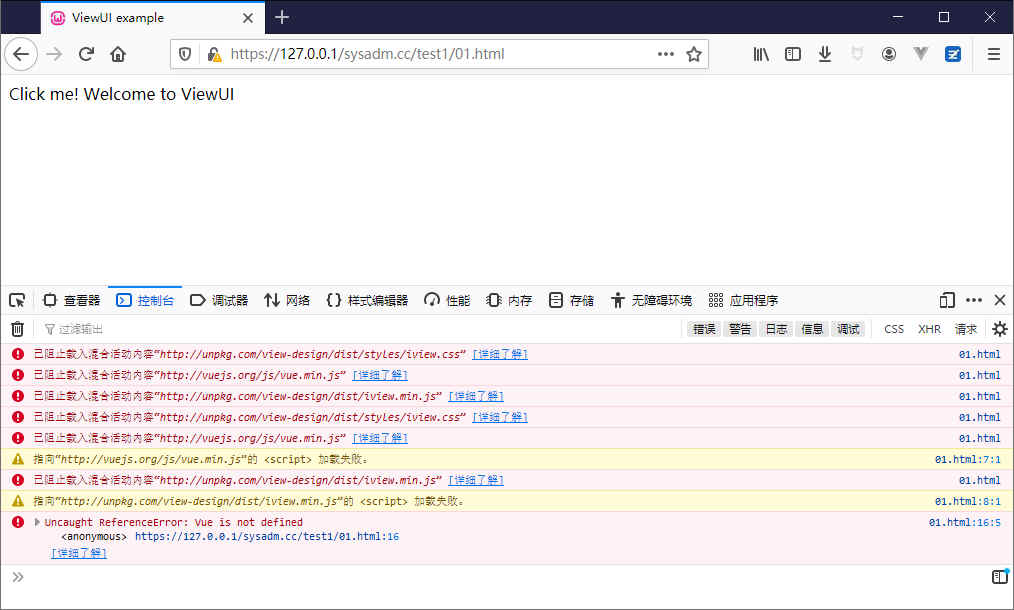
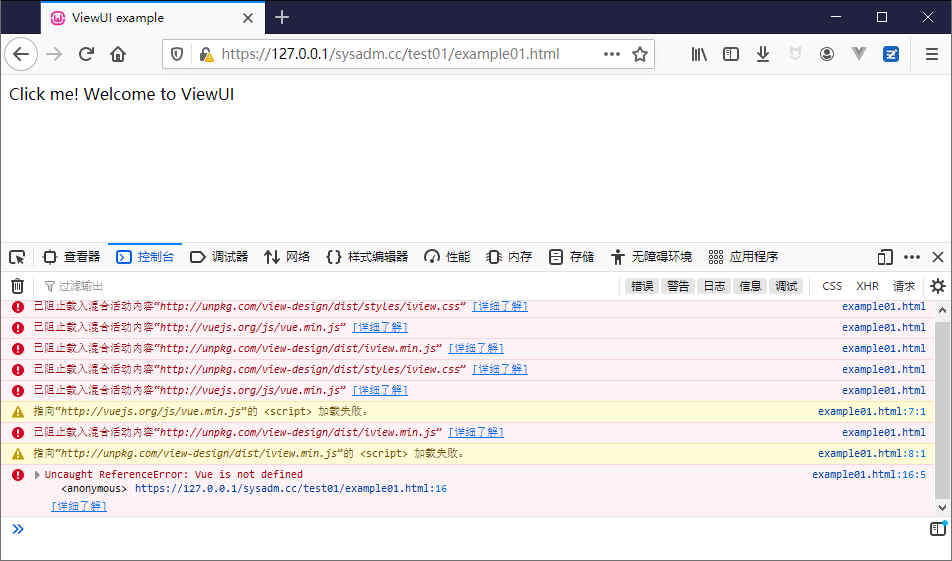
writing

Changed region(s): [[0.0, 0.4242, 1.0, 0.9697], [0.0, 0.0, 1.0, 0.1818], [0.0, 0.9394, 0.0305, 0.9697]]

diff --git a/77_PHP/202007311246_小白也能乘风破浪：ViewUI 使用入门教程（一）/小白也能乘风破浪：ViewUI 使用入门教程（一）.md b/77_PHP/202007311246_小白也能乘风破浪：ViewUI 使用入门教程（一）/小白也能乘风破浪：ViewUI 使用入门教程（一）.md
@@ -36,21 +36,180 @@
 
 
 
+前提必要条件：
+
+因为学习使用 `View UI` 时，往往会涉及到后台交互，所以在开始之前，强烈建议你务必先搭建个WEB环境。
+
+如果你想在Windows下搭建LAMP式的简单后台环境，那么推荐你使用 `WampServer` 。
+
+我这儿有参考链接：
+
+> [WampServer最新版一键安装](https://www.sysadm.cc/index.php/webxuexi/746-wampserver-one-click-install)
+>
+> [WAMPSERVER仓库镜像（中文）](https://www.sysadm.cc/index.php/xitongyunwei/720-repository-of-wampserver-files)
+
+
+
 打开官方网站，其中有很详细丰富的组件库使用说明。
 
 我们学习使用它，肯定会从如何安装入手。
 
+本教程是小白教程，所以怎么简单怎么容易实现怎么来。
+
 我们使用 `CDN` 方式引入，按照官网说明来做。
 
-先解释一下，所谓的 `CDN` 方式，我的理解是直接引用 `js` 和 `css` 等所需的文件。
+先解释一下，所谓的 `CDN` 方式，我的理解是像传统方式一样直接引用 `js` 和 `css` 等所需的文件。
+
+比如这个样子：
+
+```
+<!-- 引入 Vue.js -->
+<script src="//vuejs.org/js/vue.min.js"></script>
+
+<!-- 引入 stylesheet -->
+<link rel="stylesheet" href="//unpkg.com/view-design/dist/styles/iview.css">
+
+<!-- 引入 iView -->
+<script src="//unpkg.com/view-design/dist/iview.min.js"></script>
+```
 
 
 
+官网给出了一个简单示例，通过CDN引入方式即可快速实现组件运用。
+
+我来看看它的样子：
+
+```html
+<!DOCTYPE html>
+<html>
+<head>
+    <meta charset="utf-8">
+    <title>ViewUI example</title>
+    <link rel="stylesheet" type="text/css" href="http://unpkg.com/view-design/dist/styles/iview.css">
+    <script type="text/javascript" src="http://vuejs.org/js/vue.min.js"></script>
+    <script type="text/javascript" src="http://unpkg.com/view-design/dist/iview.min.js"></script>
+</head>
+<body>
+<div id="app">
+    <i-button @click="show">Click me!</i-button>
+    <Modal v-model="visible" title="Welcome">Welcome to ViewUI</Modal>
+</div>
+<script>
+    new Vue({
+        el: '#app',
+        data: {
+            visible: false
+        },
+        methods: {
+            show: function () {
+                this.visible = true;
+            }
+        }
+    })
+  </script>
+</body>
+</html>
+```
 
 
 
+这个例子很简单，打开后页面只有一个按钮，按钮文字写着 `Click me!` 。
+
+点击这个按钮，会弹出写有 `Welcome to ViewUI` 字样的对话框。
+
+接下来我们一起做做看。
 
 
+
+打开你喜欢的文本编辑器，对，就是你喜欢的，用记事本也是可以的，不过我喜欢 `Notepad++` ，推荐你用这个。
+
+依葫芦画瓢，把代码原封不动地复制粘贴到文本编辑器中。
+
+图1
+
+
+
+我们把它保存下来，比如我这边在 `Wamp` 的 `www` 目录下新建了一个目录 `sysadm.cc` 。
+
+然后保存在 `test01` 目录中，命名为 `01.html` 。
+
+```
+C:\Wamp\www\sysadm.cc\test01\example01.html
+```
+
+
+
+保存好了，我们来打开测试一下。
+
+首先确保你的WEB环境运行正常，打开浏览器，在地址中输入网址 `http://127.0.0.1/sysadm.cc/test01/example01.html` 后回车。
+
+哎，这是什么鬼？
+
+怎么只有一串洋字码，除此之外一片空白？
+
+按下 `F12` 打开火狐的控制台，发现其中混入了奇怪的东西。
+
+图2
+
+
+
+**“已阻止载入混合活动内容”** 的提示似乎已经告诉我们，`View UI` 的 `js` 和 `css` 引入已经完全失败。
+
+所以页面只显示出英文字母，而没有任何效果。
+
+那这个问题怎么盘它呢？
+
+求人不如求己，只有一个笨却简单的办法，那就是把 `View UI` 保存到本地随时为我所用。
+
+
+
+打开 `View UI` 在 `GitHub` 的链接：`https://github.com/view-design/ViewUI/releases` 。
+
+找到最新版本 `Latest release` 字样，目前最新版为 `v4.3.2` ，我们下载那个 `zip` 文件吧。
+
+图3
+
+
+
+下载 `ViewUI-4.3.2.zip` 完成后，把其中的 `dist` 目录解压出来。
+
+图4
+
+
+
+在这个 `dist` 目录中，我们可以看到有很多文件。
+
+其中，带有 `min` 字样的是压缩过的、可用于生产环境的文件，等会我们直接用它们。
+
+把这个 `dist` 目录复制到我们的项目目录中，就像这样： `C:\Wamp\www\sysadm.cc\test01\dist\` 。
+
+图5
+
+
+
+好，我们有了 `View UI` ，不过我们还不能开始测试使用。
+
+为啥？
+
+原因很简单哈，因为 `View UI` 是基于 `Vue.js` 的，我们还需要找到 `Vue.js` ，否则单单有 `View UI` 也是玩不转的。
+
+如图，我们按网页上的链接直接下载 `vue.min.js`  文件。
+
+图6
+
+
+
+下载完成后，我们可以打开看一下这个 `vue.min.js` 文件。
+
+可以看到，文件版本是 `v2.6.11` ，是当前 `vue.js 2.x` 的最新版，而 `View UI` 正是需要 `2.x` 版的。
+
+好，我们把 `vue.min.js`复制到项目目录中，就像这样： ``C:\Wamp\www\sysadm.cc\test01\vue.min.js` 。
+
+图7
+
+
+
+OK，各大高手到齐，我们来修改一下前面的示例文件中的引用路径。
 
 
 
